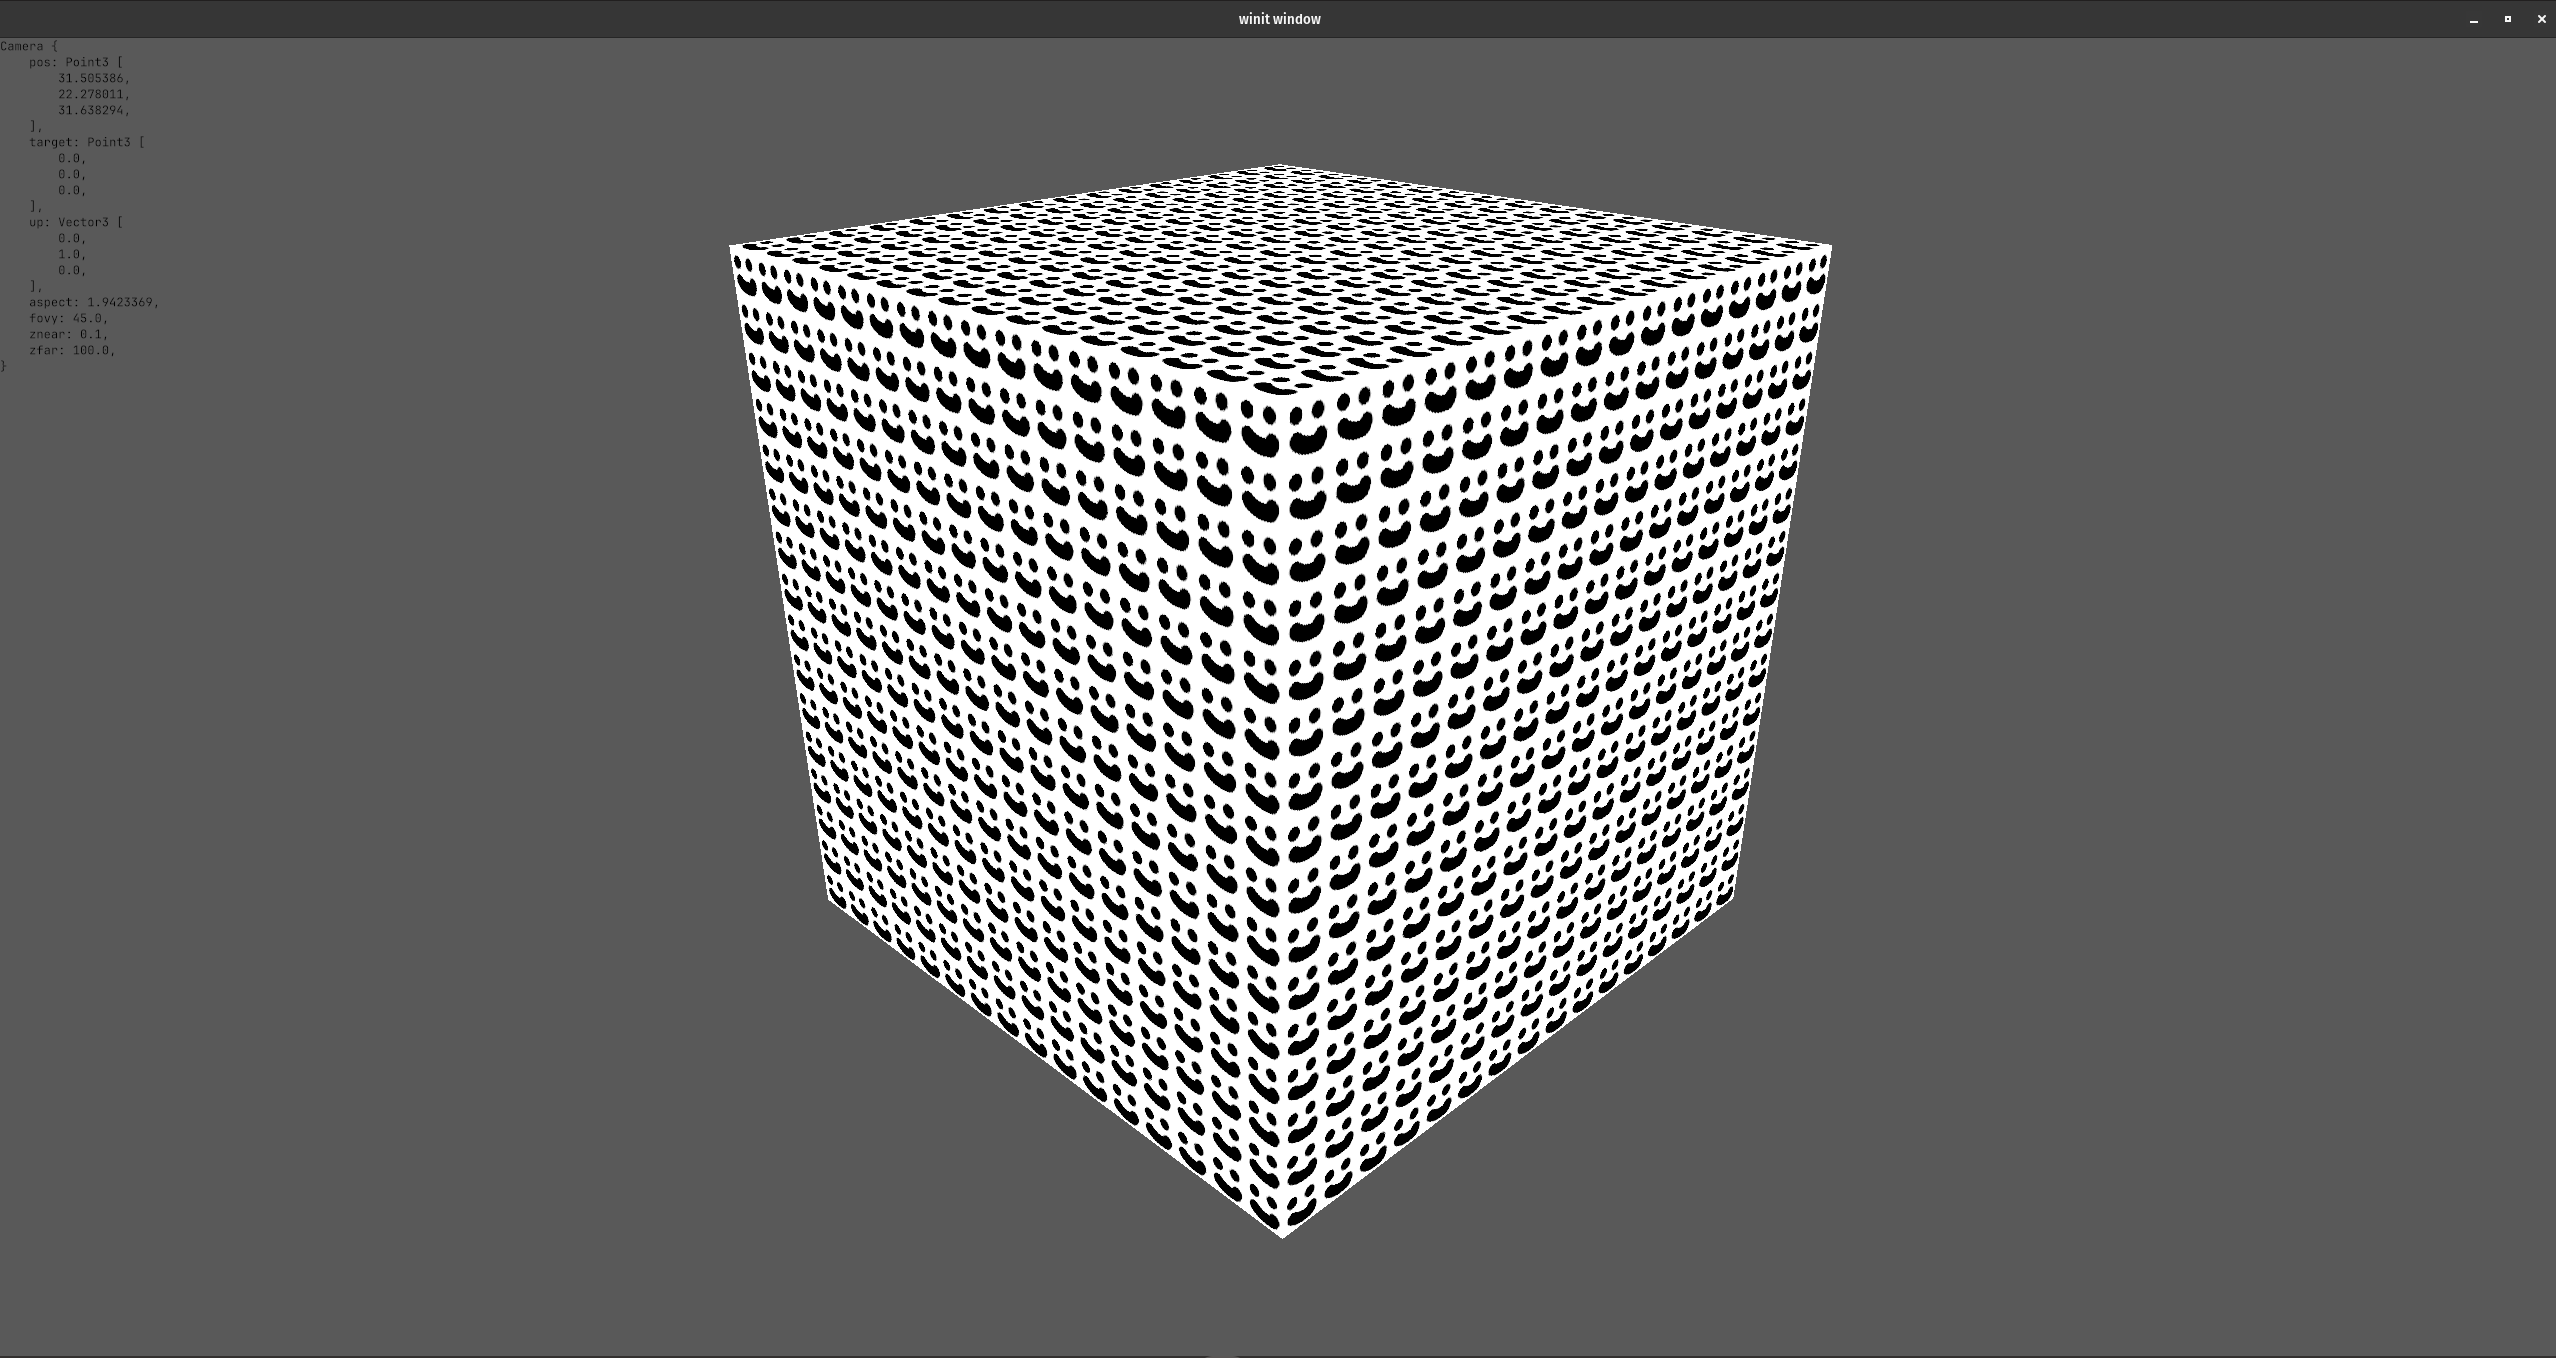
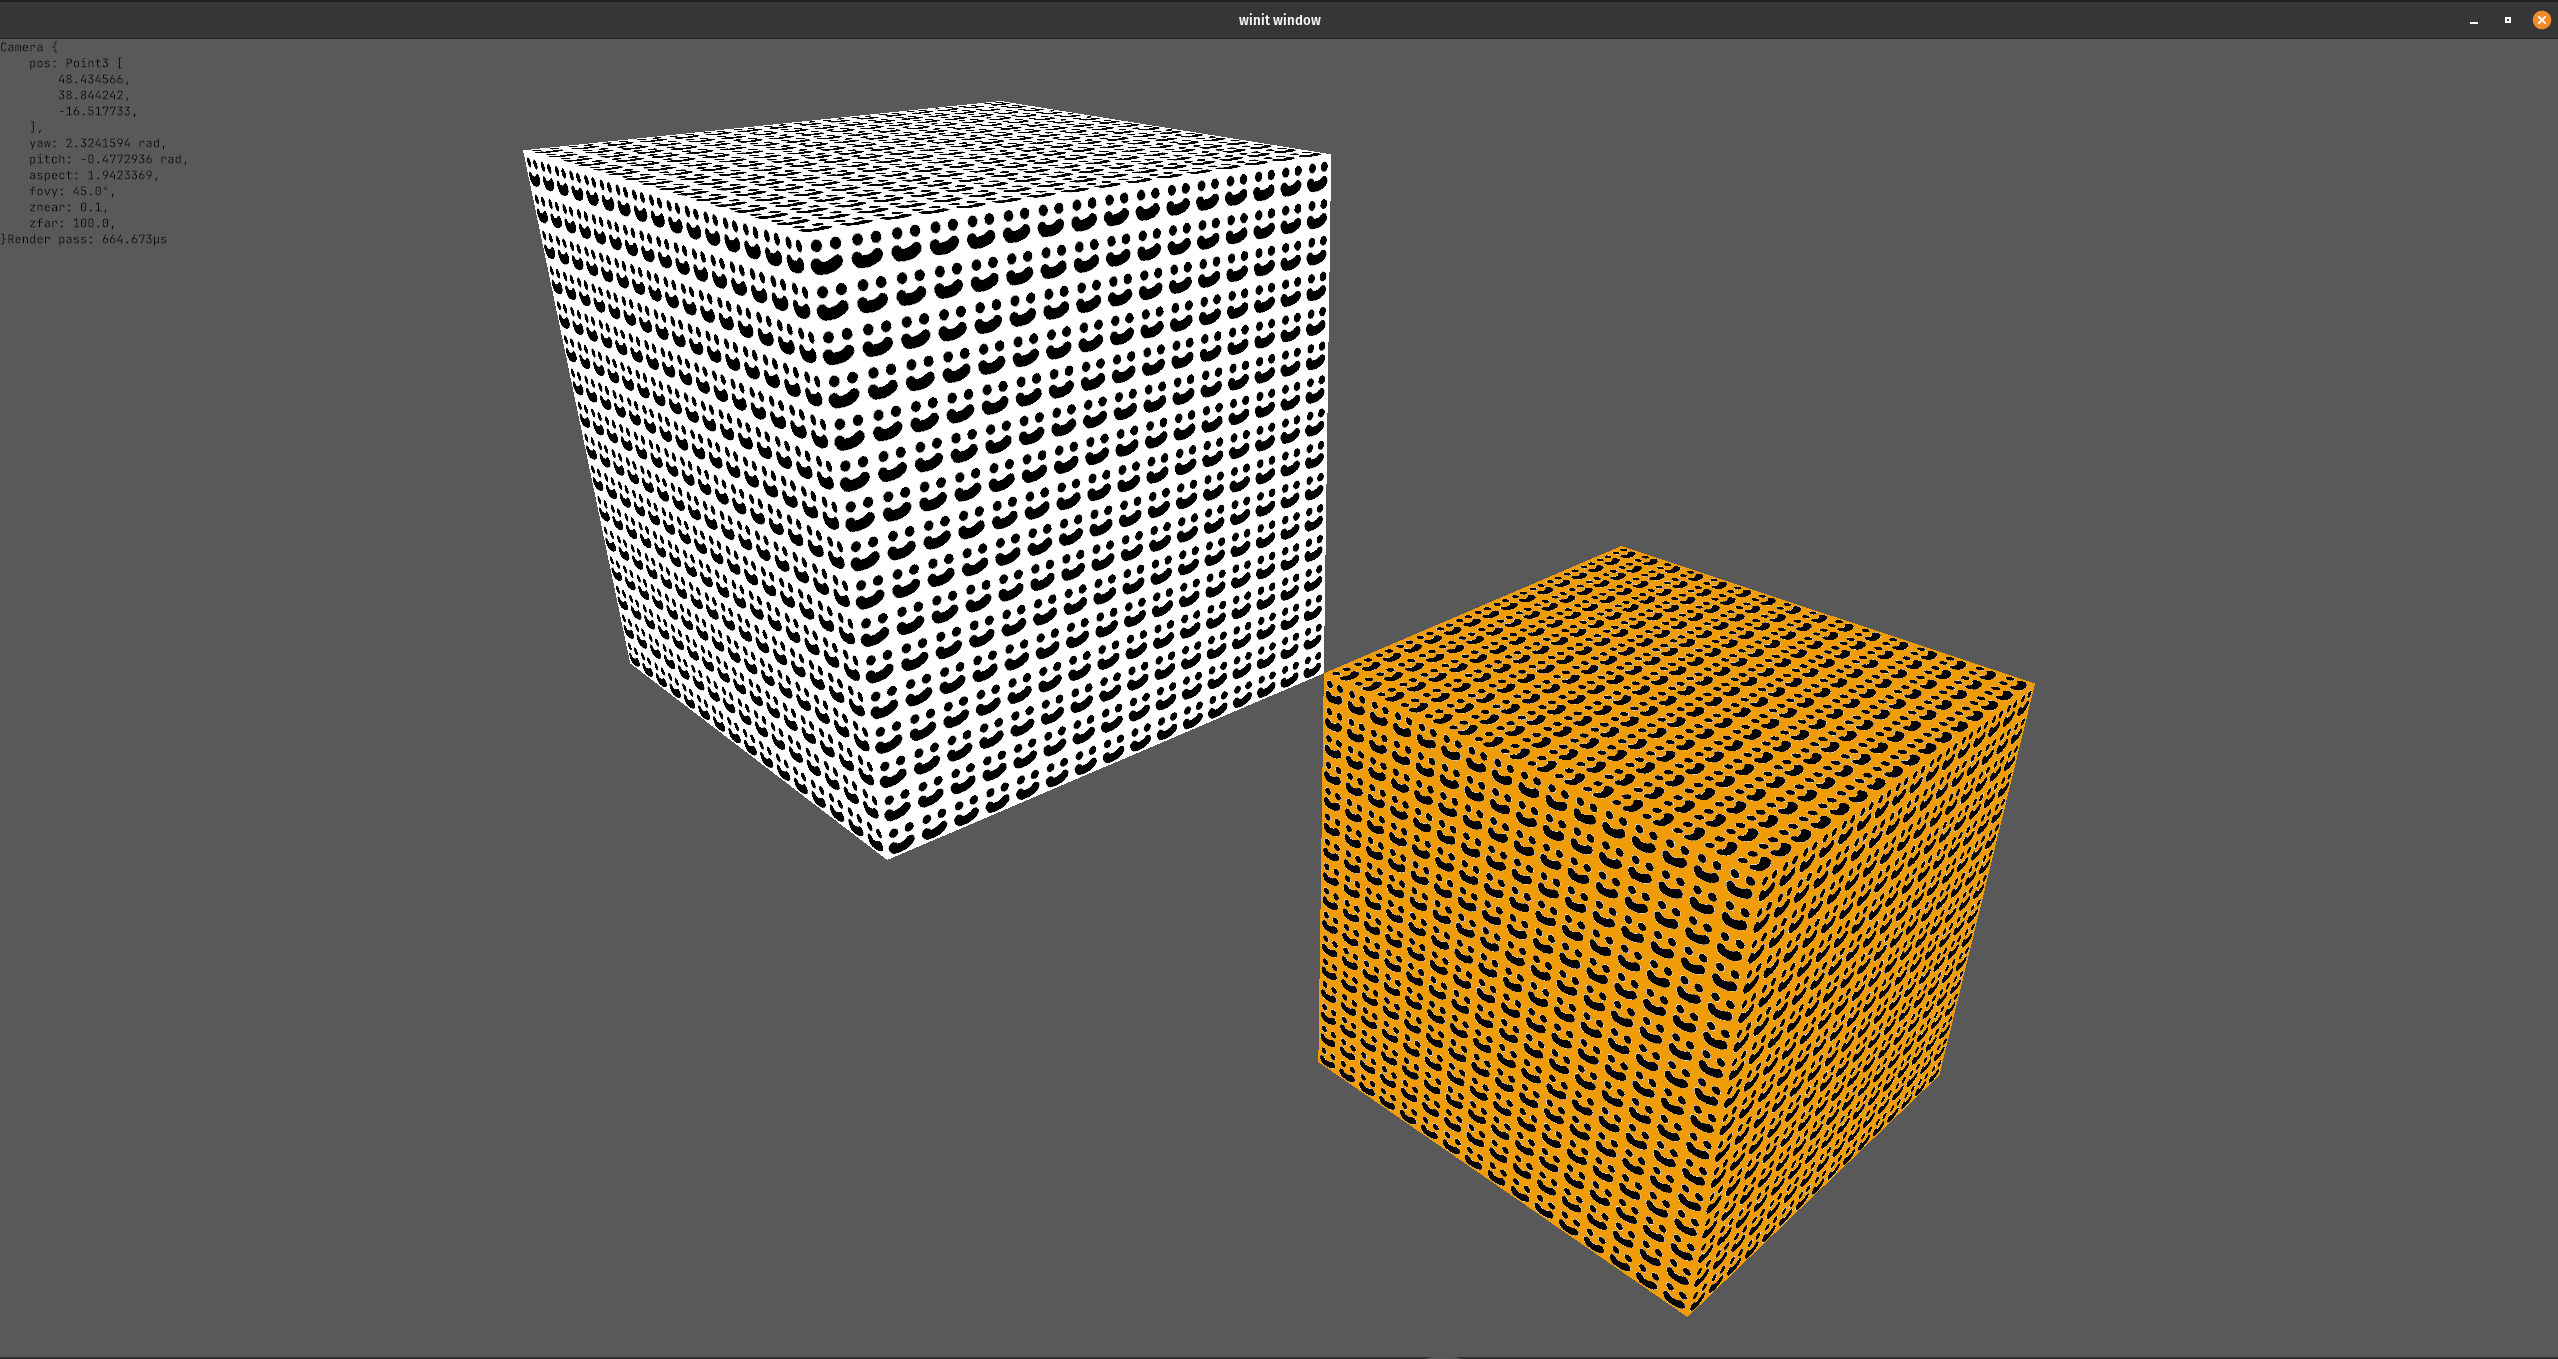
update readme

diff --git a/README.md b/README.md
@@ -2,6 +2,8 @@
 Experimenting with a 3D rendering / game engine. Currently aiming towards something Minecraft-like, simple voxel based environment.
 
 ### Current status
-Got some blocks rendering using WebGPU. Basic camera movement & perspective.
+Camera & flying movement.
+Mesh based renderering.
+Multiple block types & textures.
 
 ![](./github/screenshot.png)
